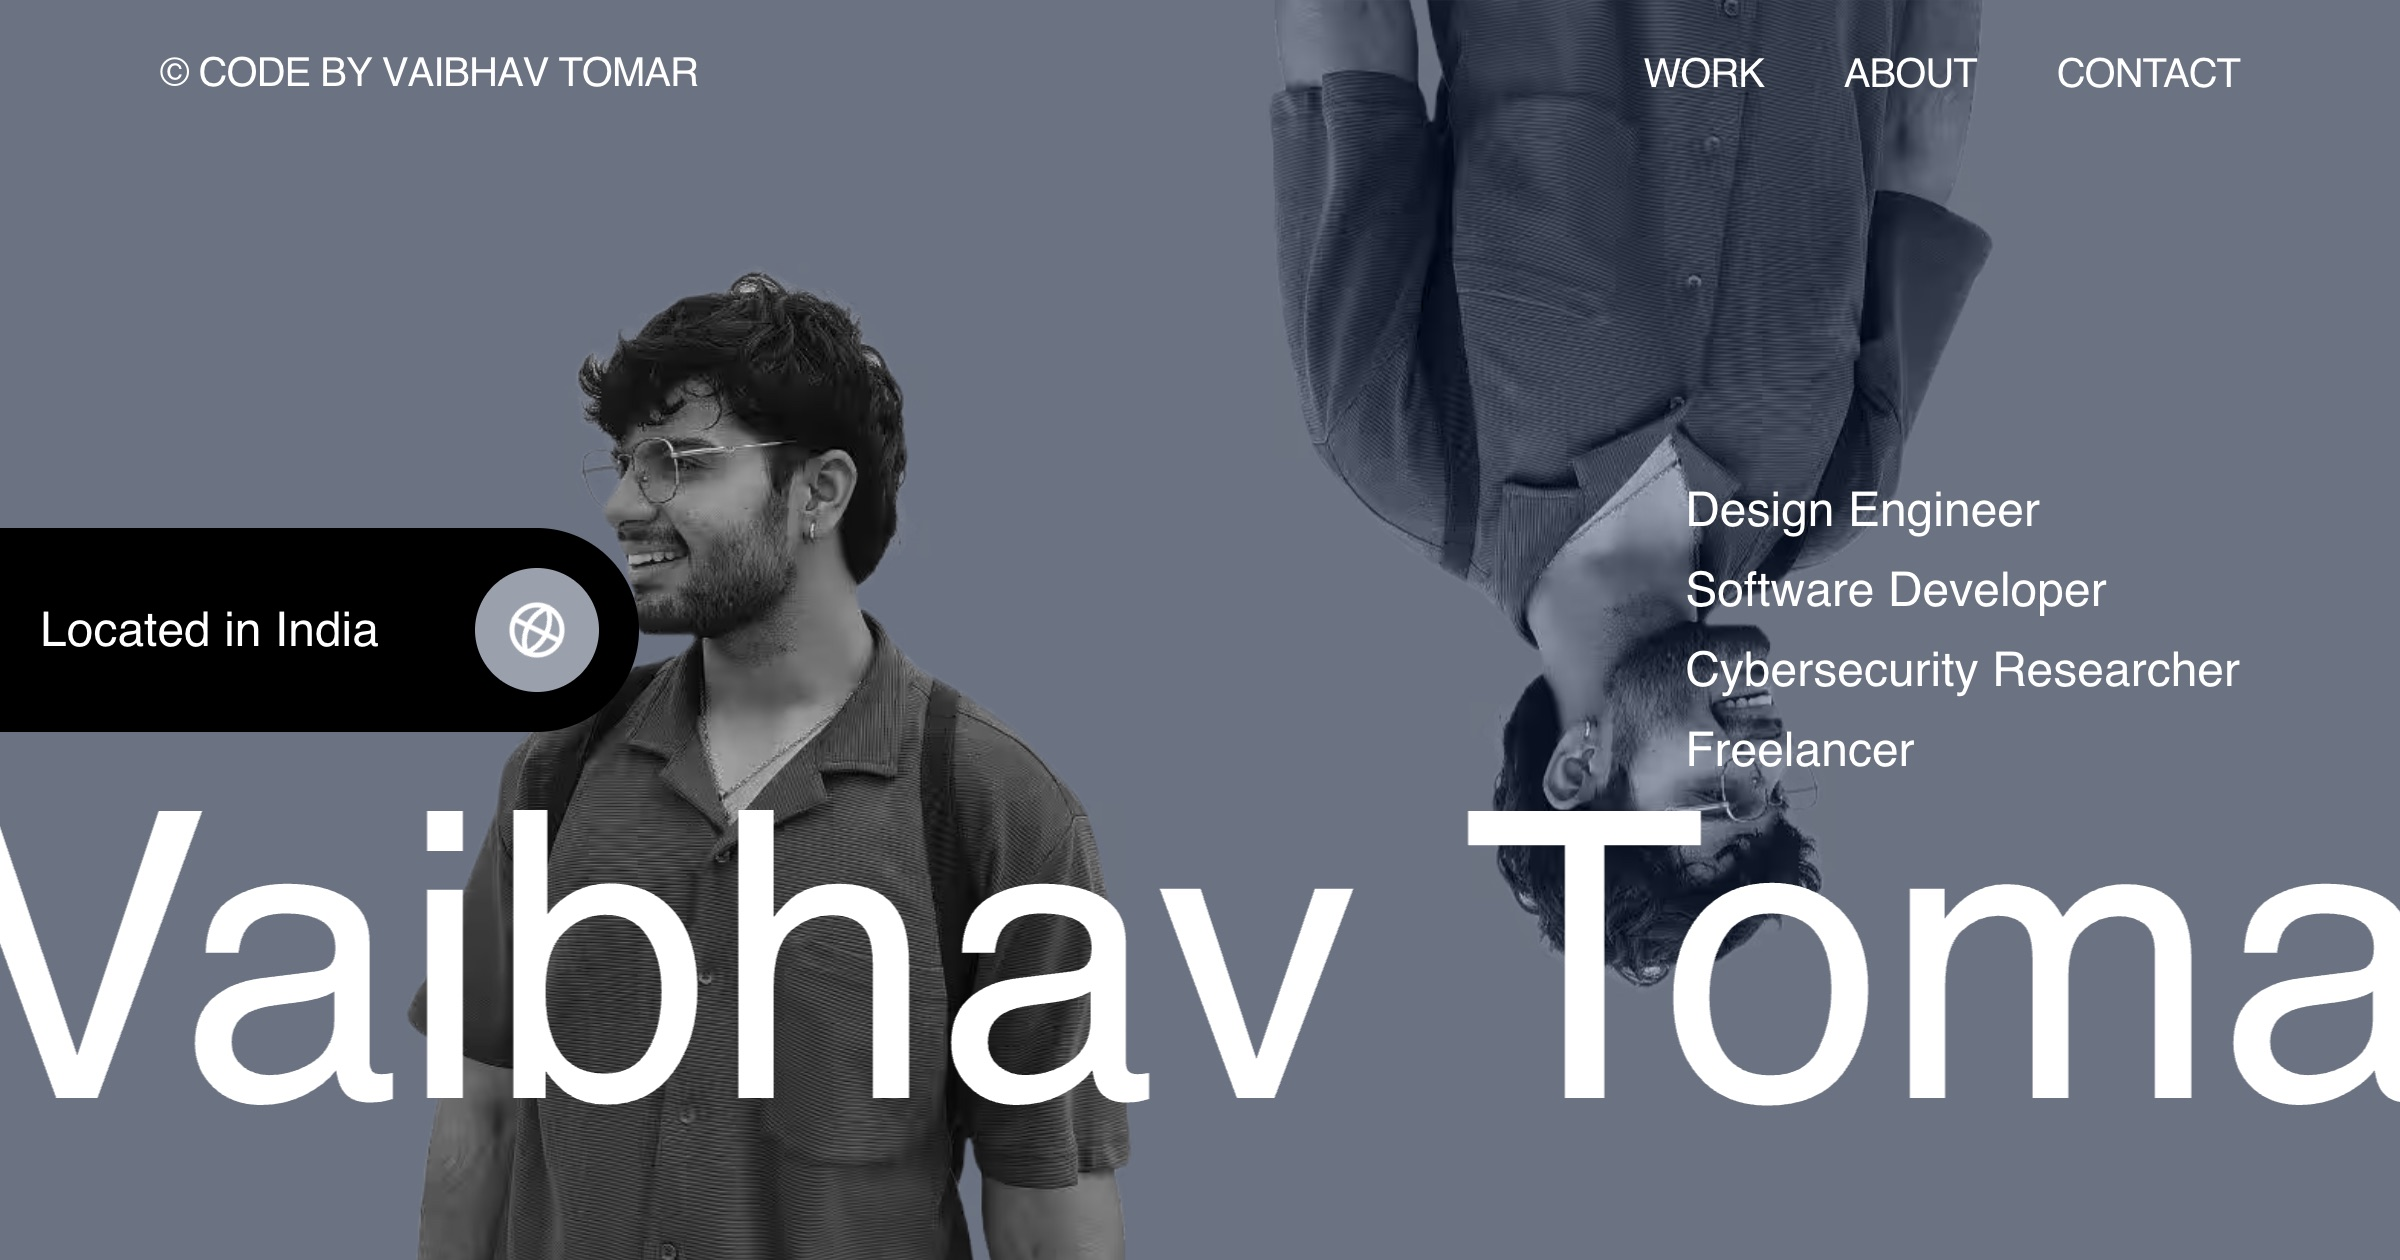
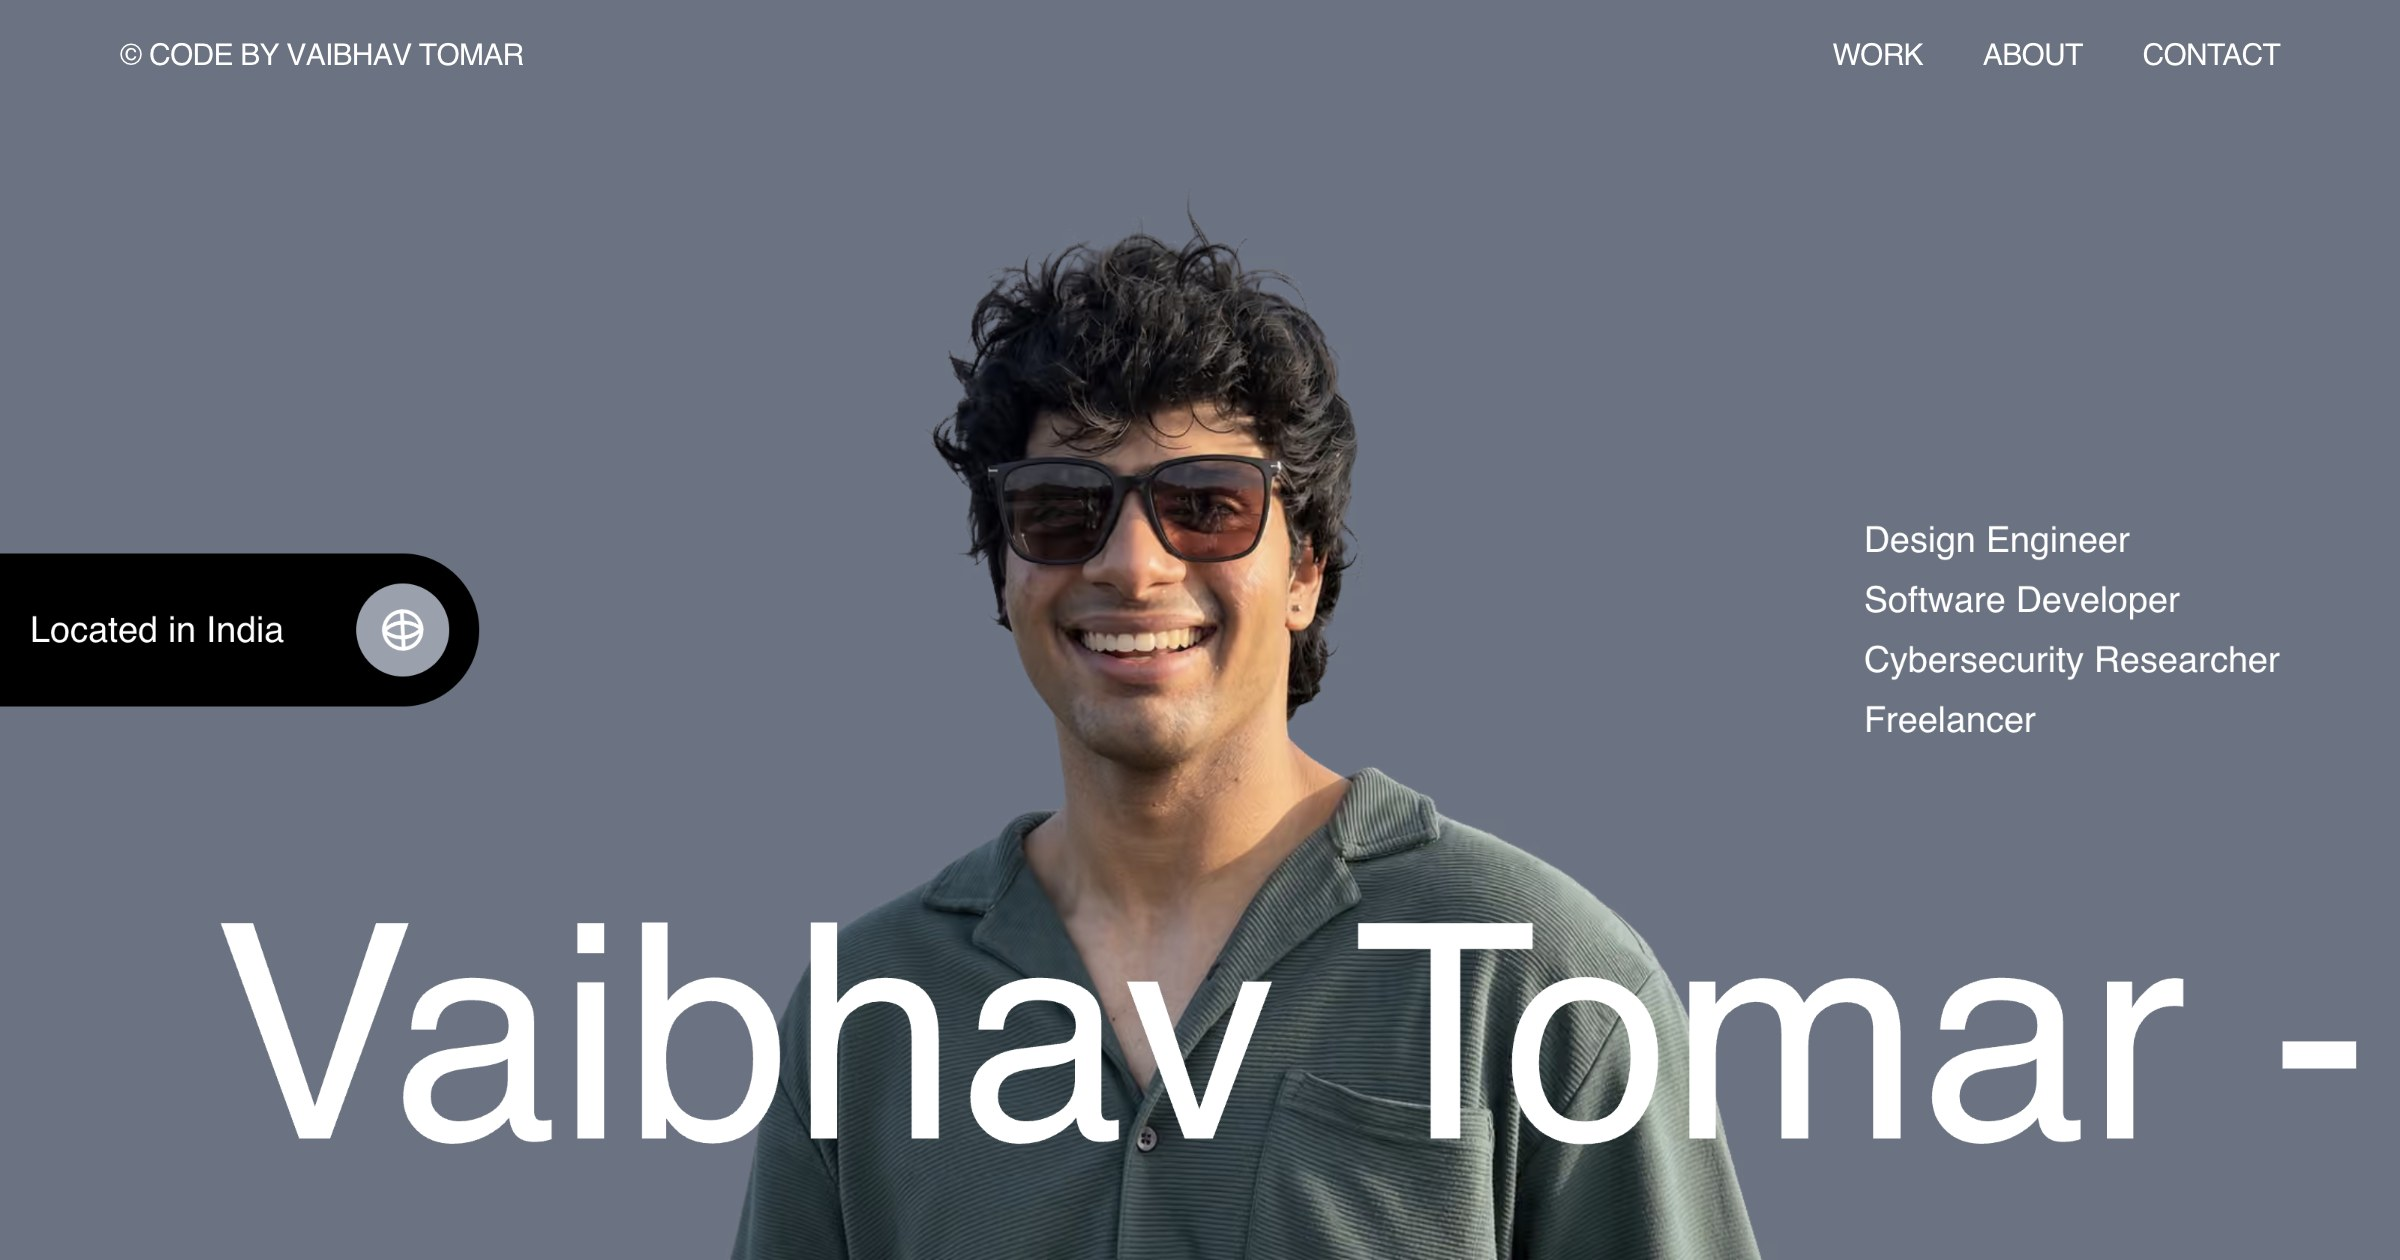
feat: hero section as OG image, add purrfect ui to projects

diff --git a/components/projects.tsx b/components/projects.tsx
@@ -5,6 +5,7 @@ import MapinlyImage from "@/public/assets/Images/mapinly.png";
 import LernpiImage from "@/public/assets/Images/lernpi.png";
 import FluxgenImage from "@/public/assets/Images/Fluxgen.png";
 import ArmourImage from "@/public/assets/Images/armour.png";
+import PurrfectImage from "@/public/assets/Images/purrfectui.jpg";
 import BountyDeskImage from "@/public/assets/Images/bountydesk.png";
 import PoinuImage from "@/public/assets/Images/poinu.png";
 import Project from "./ui/Project";
@@ -22,6 +23,12 @@ gsap.registerPlugin(ScrollTrigger);
 
 const ProjectsFramer = () => {
   const projects = [
+    {
+      title: "purrfect ui - Animated React Components",
+      src: PurrfectImage,
+      color: "#0B0B0B",
+      link: "https://purrfectui.com/",
+    },
     {
       title: "BountyDesk - Bug Bounty Triage",
       src: BountyDeskImage,
